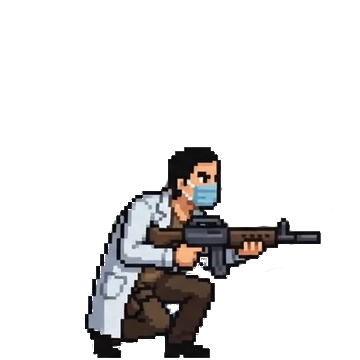
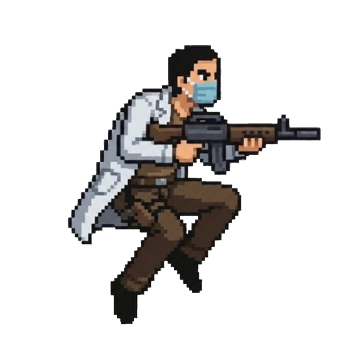
feat: adding small details

Changed region(s): [[0.1833, 0.1222, 0.9167, 1.0]]

diff --git a/src/main/java/backend/ui/CreditsState.java b/src/main/java/backend/ui/CreditsState.java
@@ -1,6 +1,7 @@
 package backend.ui;
 
 import javafx.scene.canvas.GraphicsContext;
+import javafx.scene.image.Image;
 import javafx.scene.input.KeyCode;
 import javafx.scene.input.KeyEvent;
 import javafx.scene.paint.Color;
@@ -27,6 +28,7 @@ public class CreditsState implements GameState {
     };
 
     private static final double SCROLL_SPEED = 40.0; // Пікселів за секунду
+    private final Image background = new Image("file:assets_new/doc_cutscene/final_background.png");
 
     public CreditsState(StateManager manager) {
         this.manager = manager;
@@ -58,8 +60,11 @@ public class CreditsState implements GameState {
 
     @Override
     public void render(GraphicsContext gc, int width, int height) {
-        // Чорний фон
-        gc.setFill(Color.BLACK);
+        // Фон
+        gc.drawImage(background, 0, 0, width, height);
+
+        // Затемнення
+        gc.setFill(new Color(0, 0, 0, 0.7));
         gc.fillRect(0, 0, width, height);
 
         gc.setTextAlign(TextAlignment.CENTER);

diff --git a/src/main/java/backend/LevelLauncher.java b/src/main/java/backend/LevelLauncher.java
@@ -53,7 +53,13 @@ public class LevelLauncher extends Application {
         });
         scene.setOnKeyReleased(controller::handleKeyReleased);
 
-        stateManager.changeState(new MainMenuState(stateManager));
+        // --- ТИМЧАСОВИЙ КОД ДЛЯ ТЕСТУВАННЯ ---
+        stateManager.changeState(new FinalCutsceneState(stateManager));
+        // -----------------------------------------
+
+        // --- СТАНДАРТНИЙ ЗАПУСК (ЗАКОМЕНТОВАНО) ---
+        // stateManager.changeState(new MainMenuState(stateManager));
+        // -------------------------------------------
 
         AnimationTimer gameLoop = new AnimationTimer() {
             private long lastTime = 0;